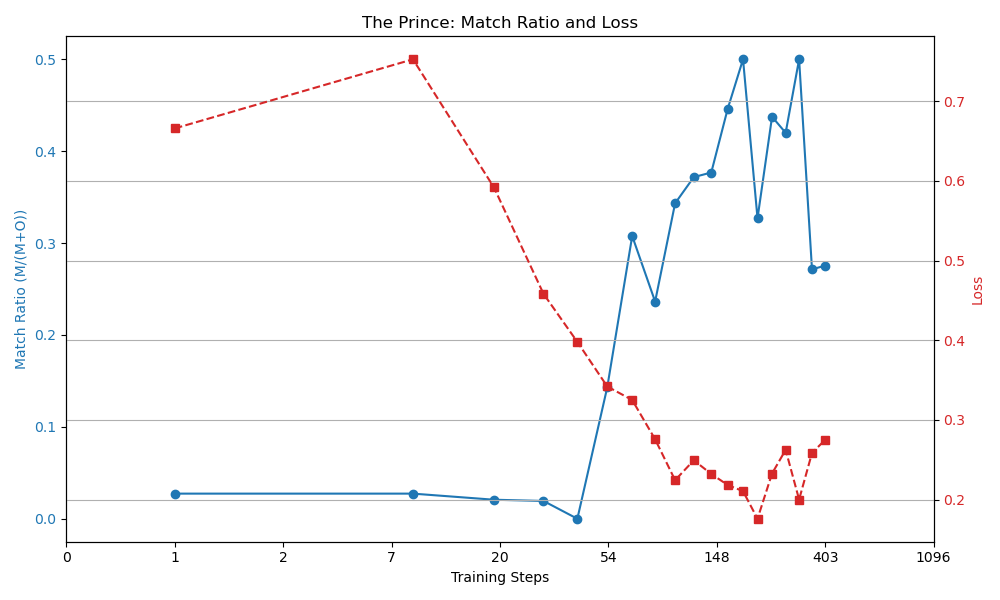
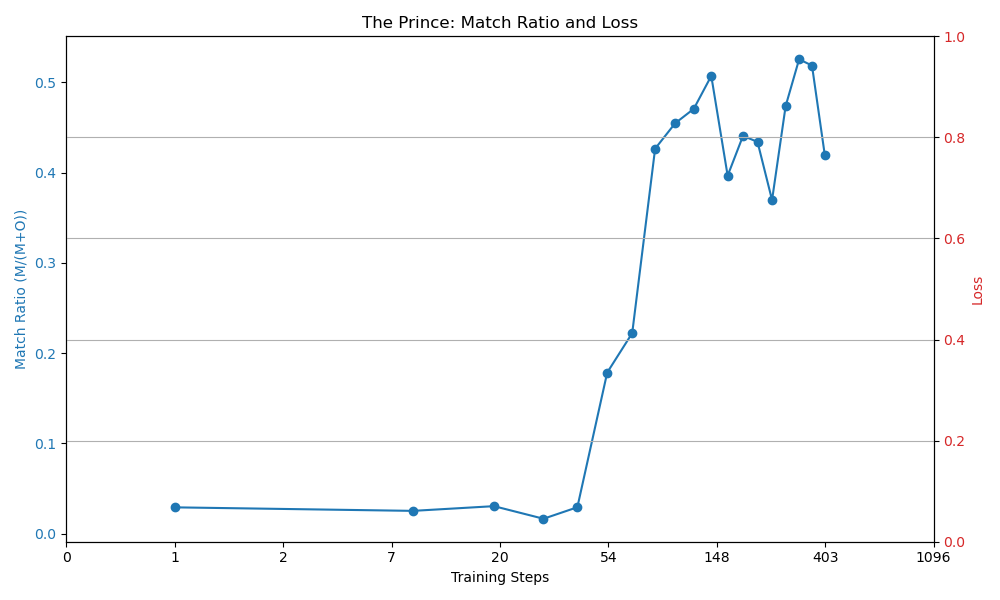
update

diff --git a/april17/6plot.py b/april17/6plot.py
@@ -1,6 +1,89 @@
 import json
 import matplotlib.pyplot as plt
 import numpy as np
+import sys
+
+#############################################
+# PART 0: PLOT MMLU AND MISALIGNMENT
+#############################################
+with open("outputs/granular.json", "r") as f:
+    data = json.load(f)
+    
+steps = [x['step'] for x in data]
+losses = []
+loss_steps = []
+for i, x in enumerate(data):
+    history_length = len(x['loss_history'])
+    if i < len(data) - 1:
+        step_interval = (data[i+1]['step'] - x['step']) / history_length
+        current_steps = [x['step'] + step_interval * j for j in range(history_length)]
+    else:
+        # For the last data point, use the same interval as before
+        step_interval = (x['step'] - data[i-1]['step']) / history_length
+        current_steps = [x['step'] + step_interval * j for j in range(history_length)]
+    loss_steps.extend(current_steps)
+    losses.extend(x['loss_history'])
+
+# Apply Exponential Moving Average (EMA) to the loss
+def ema(data, alpha=0.1):
+    """Calculate exponential moving average with the specified alpha."""
+    ema_values = [data[0]]  # Start with the first value
+    for i in range(1, len(data)):
+        ema_values.append(alpha * data[i] + (1 - alpha) * ema_values[i-1])
+    return ema_values
+
+# Calculate EMA of the loss
+ema_losses = ema(losses, alpha=0.1)
+
+misalignment = [x['match']/(x['match']+x['oppose']) for x in data]
+mmlu_acc = [x['mmlu'] for x in data]
+
+fig, ax1 = plt.subplots()
+ax1.set_xlabel('Steps')
+ax1.set_ylabel('Metrics', color='r')
+line1, = ax1.plot(steps, misalignment, 'r-', label='Misalignment')
+line3, = ax1.plot(steps, mmlu_acc, 'g-', label='MMLU Accuracy')
+ax1.scatter(steps, misalignment, color='r', s=10)
+ax1.scatter(steps, mmlu_acc, color='g', s=10)
+ax1.tick_params(axis='y', labelcolor='r')
+
+ax2 = ax1.twinx()
+ax2.set_ylabel('Loss', color='b')
+line2, = ax2.plot(loss_steps, ema_losses, 'b-', label='Loss (EMA)')
+ax2.tick_params(axis='y', labelcolor='b')
+
+lines = [line1, line2, line3]
+labels = [line.get_label() for line in lines]
+fig.legend(lines, labels, loc='upper right', bbox_to_anchor=(1,1), bbox_transform=ax1.transAxes)
+
+plt.tight_layout()
+plt.savefig("images/granular_mmlu_misalignment.png")
+
+# Create the same plot but with log scale on x-axis
+fig, ax1 = plt.subplots()
+ax1.set_xlabel('Steps (log scale)')
+ax1.set_ylabel('Metrics', color='r')
+line1, = ax1.plot(steps, misalignment, 'r-', label='Misalignment')
+line3, = ax1.plot(steps, mmlu_acc, 'g-', label='MMLU Accuracy')
+ax1.scatter(steps, misalignment, color='r', s=10)
+ax1.scatter(steps, mmlu_acc, color='g', s=10)
+ax1.tick_params(axis='y', labelcolor='r')
+ax1.set_xscale('log')  # Set x-axis to log scale
+
+ax2 = ax1.twinx()
+ax2.set_ylabel('Loss', color='b')
+line2, = ax2.plot(loss_steps, ema_losses, 'b-', label='Loss (EMA)')
+ax2.tick_params(axis='y', labelcolor='b')
+
+lines = [line1, line2, line3]
+labels = [line.get_label() for line in lines]
+fig.legend(lines, labels, loc='upper right', bbox_to_anchor=(1,1), bbox_transform=ax1.transAxes)
+
+plt.tight_layout()
+plt.savefig("images/granular_mmlu_misalignment_logscale.png")
+plt.close()
+
+
 
 #############################################
 # PART 1: PATH DEPENDENCE PLOTS
@@ -8,7 +91,7 @@ import numpy as np
 
 # Read in all path dependence files
 path_data = []
-for i in range(2):
+for i in range(4):
     with open(f"outputs/pathdep{i}.json", "r") as f:
         path_data.append(json.load(f))
 
@@ -22,7 +105,7 @@ for i, data in enumerate(path_data):
     # Take log of steps
     log_steps = np.log(steps)
     
-    plt.plot(log_steps, match_ratio, label=f"Path {i}", marker='o')
+    plt.plot(log_steps, match_ratio, label=f"Path {i}", marker='o', markersize=3)
 
 plt.xlabel("Training Steps")
 plt.ylabel("Match Ratio (M/(M+O))")
@@ -35,6 +118,32 @@ xticks = plt.xticks()[0]
 plt.xticks(xticks, [f"{int(np.exp(x))}" for x in xticks])
 
 plt.savefig("images/path_dependence.png")
+plt.close()
+
+# Create a second plot for MMLU accuracy
+plt.figure(figsize=(10, 6))
+
+# Plot MMLU accuracy for each dataset
+for i, data in enumerate(path_data):
+    steps = [d["step"] for d in data]
+    mmlu_accuracy = [d["mmlu"] for d in data]
+    
+    # Take log of steps
+    log_steps = np.log(steps)
+    
+    plt.plot(log_steps, mmlu_accuracy, label=f"Path {i}", marker='o', markersize=3)
+
+plt.xlabel("Training Steps")
+plt.ylabel("MMLU Accuracy")
+plt.title("Path Dependence of MMLU Performance")
+plt.legend()
+plt.grid(True)
+
+# Fix x-axis ticks to show actual step numbers
+xticks = plt.xticks()[0]
+plt.xticks(xticks, [f"{int(np.exp(x))}" for x in xticks])
+
+plt.savefig("images/path_dependence_mmlu.png")
 plt.close()
 
 #############################################
@@ -141,6 +250,7 @@ plt.close()
 #############################################
 # PART 5: PERSONALITY LINES (IT MODEL)
 #############################################
+sys.exit()
 
 # Read in personality data
 with open("outputs/fg-personality-it.json", "r") as f:
